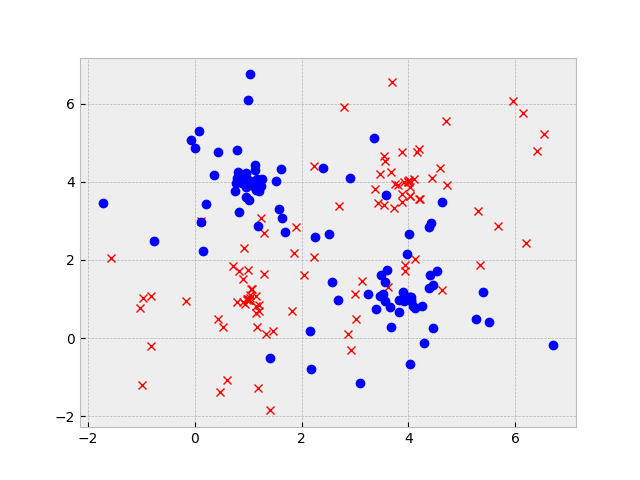
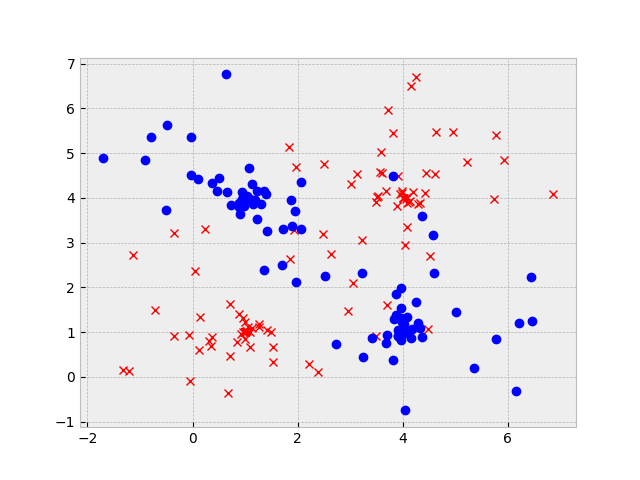
completed neural net practice analysis

diff --git a/tests/sklearn_random_forest.py b/tests/sklearn_random_forest.py
@@ -1,0 +1,87 @@
+from sklearn.ensemble import RandomForestClassifier
+import pandas as pd
+import random
+import math
+import matplotlib.pyplot as plt
+import sys
+sys.path.append('src')
+from random_subset_forest import *
+
+
+
+print('Test 1')
+datapoints = []
+def add_cluster_datapoints(n, r_max, center, classification, data_list):
+  for i in range(n):
+    x,y = center
+    r = r_max*random.random()**2
+    theta = random.uniform(0, 2*math.pi)
+    new_point = [x+r*math.cos(theta), y+r*math.sin(theta), classification]
+    data_list.append(new_point)
+     
+add_cluster_datapoints(50, 3, (1,1), 'X', datapoints)
+add_cluster_datapoints(50, 3, (4,4), 'X', datapoints)
+add_cluster_datapoints(50, 3, (1,4), 'O', datapoints)
+add_cluster_datapoints(50, 3, (4,1), 'O', datapoints)
+
+X_x_list = [datapoints[i][0] for i in range(100)]
+X_y_list = [datapoints[i][1] for i in range(100)]
+O_x_list = [datapoints[i][0] for i in range(100,200)]
+O_y_list = [datapoints[i][1] for i in range(100,200)]
+
+plt.style.use('bmh')
+plt.plot(X_x_list, X_y_list, 'rx')
+plt.plot(O_x_list, O_y_list, 'bo')
+plt.savefig('scattered_data.png')
+
+df = pd.DataFrame(data = datapoints, columns = ['x','y','class'])
+
+
+def get_folds(df, fold_num):
+  df = df.sample(frac=1).reset_index(drop=True)
+  return [df.iloc[int(i*len(df.index)/fold_num):int((i+1)*len(df.index)/fold_num)] for i in range(fold_num)]
+
+def calc_accuracy(df, tree_num, fold_num):
+  print('Tree Num',tree_num)
+  correct_classifications = 0
+  total_classifications = len(df.index)
+  folds = get_folds(df, fold_num)
+  vars = [col for col in df.columns if col != 'class']
+  for i in range(fold_num): 
+    test_df = folds[i].copy().reset_index(drop=True)
+    train_df = pd.concat([folds[j] for j in range(fold_num) if j != i])
+    print('fold ',i)
+
+    X_train = train_df[vars]
+    y_train = train_df['class']
+
+    X_test = test_df[vars]
+    y_test = test_df['class']
+
+    rf = RandomForestClassifier(n_estimators=tree_num)
+    rf.fit(X_train, y_train)
+
+    predictions = rf.predict(X_test)
+
+    for j in range(len(y_test.index)):
+
+      predicted_cls = predictions[j]
+      actual_cls = y_test.iloc[j]
+
+      if predicted_cls == actual_cls:
+        correct_classifications += 1
+  
+  return correct_classifications/total_classifications
+
+tree_nums = [1,10,20,50,100,500,1000]
+accuracies = [calc_accuracy(df, i, 5) for i in tree_nums]
+
+print(accuracies)
+plt.clf()
+plt.style.use('bmh')
+plt.plot(tree_nums, accuracies)
+plt.xlabel('tree_nums')
+plt.ylabel('Accuracy')
+plt.xticks(tree_nums)
+
+plt.savefig('sklearn_k_fold_random_forest.png')

diff --git a/tests/sklearn_decision_tree.py b/tests/sklearn_decision_tree.py
@@ -1,0 +1,86 @@
+from sklearn.tree import DecisionTreeClassifier
+import pandas as pd
+import random
+import math
+import matplotlib.pyplot as plt
+import sys
+sys.path.append('src')
+from random_subset_forest import *
+
+
+
+print('Test 1')
+datapoints = []
+def add_cluster_datapoints(n, r_max, center, classification, data_list):
+  for i in range(n):
+    x,y = center
+    r = r_max*random.random()**2
+    theta = random.uniform(0, 2*math.pi)
+    new_point = [x+r*math.cos(theta), y+r*math.sin(theta), classification]
+    data_list.append(new_point)
+     
+add_cluster_datapoints(50, 3, (1,1), 'X', datapoints)
+add_cluster_datapoints(50, 3, (4,4), 'X', datapoints)
+add_cluster_datapoints(50, 3, (1,4), 'O', datapoints)
+add_cluster_datapoints(50, 3, (4,1), 'O', datapoints)
+
+X_x_list = [datapoints[i][0] for i in range(100)]
+X_y_list = [datapoints[i][1] for i in range(100)]
+O_x_list = [datapoints[i][0] for i in range(100,200)]
+O_y_list = [datapoints[i][1] for i in range(100,200)]
+
+plt.style.use('bmh')
+plt.plot(X_x_list, X_y_list, 'rx')
+plt.plot(O_x_list, O_y_list, 'bo')
+plt.savefig('scattered_data.png')
+
+df = pd.DataFrame(data = datapoints, columns = ['x','y','class'])
+
+
+def get_folds(df, fold_num):
+  df = df.sample(frac=1).reset_index(drop=True)
+  return [df.iloc[int(i*len(df.index)/fold_num):int((i+1)*len(df.index)/fold_num)] for i in range(fold_num)]
+
+def calc_accuracy(df, min_size_to_split, fold_num):
+  correct_classifications = 0
+  total_classifications = len(df.index)
+  folds = get_folds(df, fold_num)
+  vars = [col for col in df.columns if col != 'class']
+  for i in range(fold_num): 
+    test_df = folds[i].copy().reset_index(drop=True)
+    train_df = pd.concat([folds[j] for j in range(fold_num) if j != i])
+    print('fold ',i)
+
+    X_train = train_df[vars]
+    y_train = train_df['class']
+
+    X_test = test_df[vars]
+    y_test = test_df['class']
+
+    dt = DecisionTreeClassifier(min_samples_split= min_size_to_split)
+    dt.fit(X_train, y_train)
+
+    predictions = dt.predict(X_test)
+
+    for j in range(len(y_test.index)):
+
+      predicted_cls = predictions[j]
+      actual_cls = y_test.iloc[j]
+
+      if predicted_cls == actual_cls:
+        correct_classifications += 1
+  
+  return correct_classifications/total_classifications
+
+min_sizes = [2,5,10,15,20,30,50,100]
+accuracies = [calc_accuracy(df, i, 5) for i in min_sizes]
+
+print(accuracies)
+plt.clf()
+plt.style.use('bmh')
+plt.plot(min_sizes, accuracies)
+plt.xlabel('min_sizes')
+plt.ylabel('Accuracy')
+plt.xticks(min_sizes)
+
+plt.savefig('sklearn_k_fold_decision_tree.png')

diff --git a/tests/random_forest_prediction_space.py b/tests/random_forest_prediction_space.py
@@ -1,0 +1,63 @@
+from sklearn.ensemble import RandomForestClassifier
+import pandas as pd
+import random
+import math
+import matplotlib.pyplot as plt
+import sys
+sys.path.append('src')
+from random_subset_forest import *
+
+
+
+print('Test 1')
+datapoints = []
+def add_cluster_datapoints(n, r_max, center, classification, data_list):
+  for i in range(n):
+    x,y = center
+    r = r_max*random.random()**2
+    theta = random.uniform(0, 2*math.pi)
+    new_point = [x+r*math.cos(theta), y+r*math.sin(theta), classification]
+    data_list.append(new_point)
+     
+add_cluster_datapoints(50, 3, (1,1), 'X', datapoints)
+add_cluster_datapoints(50, 3, (4,4), 'X', datapoints)
+add_cluster_datapoints(50, 3, (1,4), 'O', datapoints)
+add_cluster_datapoints(50, 3, (4,1), 'O', datapoints)
+
+X_x_list = [datapoints[i][0] for i in range(100)]
+X_y_list = [datapoints[i][1] for i in range(100)]
+O_x_list = [datapoints[i][0] for i in range(100,200)]
+O_y_list = [datapoints[i][1] for i in range(100,200)]
+
+plt.style.use('bmh')
+plt.plot(X_x_list, X_y_list, 'rx')
+plt.plot(O_x_list, O_y_list, 'bo')
+plt.savefig('scattered_data.png')
+
+df = pd.DataFrame(data = datapoints, columns = ['x','y','class'])
+
+rf = RandomForestClassifier(n_estimators=100)
+
+vars = [var for var in df.columns if var != 'class']
+
+X = df[vars]
+y = df['class']
+
+rf.fit(X,y)
+
+all_points = [[x/10, y/10] for x in range(-20,70) for y in range(-20,70)]
+all_points_df = pd.DataFrame(data = all_points, columns = ['x', 'y'])
+
+predictions = rf.predict(all_points_df)
+X_prediction_points = [all_points[i] for i in range(len(all_points)) if predictions[i]=='X']
+O_prediction_points = [all_points[i] for i in range(len(all_points)) if predictions[i]=='O']
+
+X_prediction_x = [p[0] for p in X_prediction_points]
+X_prediction_y = [p[1] for p in X_prediction_points]
+O_prediction_x = [p[0] for p in O_prediction_points]
+O_prediction_y = [p[1] for p in O_prediction_points]
+
+plt.scatter(X_prediction_x,X_prediction_y,c = 'r', s=1.5, marker = '.')
+plt.scatter(O_prediction_x,O_prediction_y,c = 'b', s=1.5,marker = '.')
+
+plt.savefig('random_forest_prediction_space.png')

diff --git a/tests/neural_network_practice.py b/tests/neural_network_practice.py
@@ -1,0 +1,81 @@
+import math
+import matplotlib.pyplot as plt
+
+datapoints = {(0,5),(2,3),(5,10)}
+
+weights = {(1,3):1,
+           (1,4):1,
+           (2,3):1,
+           (2,4):1,
+           (3,6):1,
+           (4,6):1,
+           (5,6):1}
+
+def act_f(x):
+  return max(0,x)
+
+def predict(w, x):
+  return act_f(w[(3,6)]*act_f(w[(1,3)]*act_f(x)+w[(2,3)])+w[(4,6)]*act_f(w[(1,4)]*act_f(x)+w[(2,4)])+w[(5,6)])
+
+
+inputs = [i/100 for i in range(800)]
+outputs = [predict(weights, i/100) for i in range(800)]
+
+plt.clf()
+plt.style.use('bmh')
+plt.title("Neural Network Regression")
+plt.scatter([0,2,5],[5,3,10], label='Datapoints')
+plt.plot(inputs, outputs, label="Initial Regression")
+
+def rss(w):
+  rss = 0
+  for point in datapoints:
+    value = point[1]
+    prediction = predict(w, point[0])
+    rss += (value-prediction)**2
+  return rss
+
+def compute_gradient(f, weights, delta):
+  gradient = {}
+  for edge in weights:
+    partial = 0
+    temp_point = weights.copy()
+    temp_point[edge] += delta/2
+    partial += f(temp_point)
+    temp_point[edge] -= delta
+    partial -= f(temp_point)
+    gradient[edge] = partial/delta
+
+  return gradient
+
+RSS_vals = []
+
+def descend(f, initial_weights, alpha, delta, num_steps):
+  for step in range(num_steps):
+    for edge in initial_weights:
+      initial_weights[edge] -= alpha*compute_gradient(f, initial_weights, delta)[edge]
+    if step%100 == 0:
+      print('RSS at step ', step, ': ', rss(initial_weights))
+      RSS_vals.append(rss(initial_weights))
+      print('Parameters: ', initial_weights)
+
+
+descend(rss, weights, 0.01, 0.00001, 2000)
+print(weights)
+
+outputs = [predict(weights, i/100) for i in range(800)]
+
+plt.plot(inputs, outputs, label="Final Regression")
+plt.xlabel('Inputs')
+plt.ylabel('Outputs')
+plt.legend()
+
+plt.savefig('neural_net_practice_output.png')
+
+plt.clf()
+plt.title("Neural Network RSS")
+plt.plot([100*i for i in range(20)], RSS_vals)
+plt.xlabel('Number of Iterations')
+plt.ylabel('RSS')
+plt.savefig('neural_net_practice_RSS.png')
+
